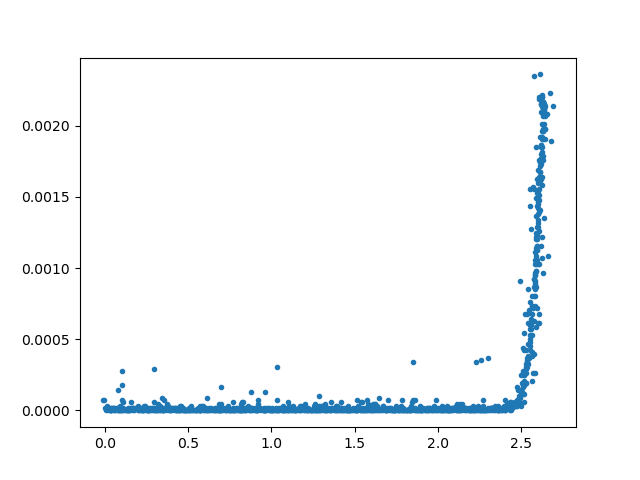
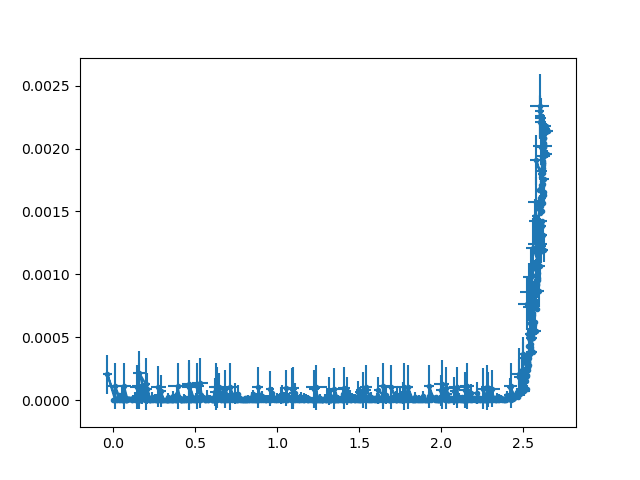
Added function to plot with error

diff --git a/diode_experiment.py b/diode_experiment.py
@@ -2,9 +2,9 @@ from arduino_device import ArduinoVISADevice, list_devices
 
 
 class DiodeExperiment:
-    def __init__(self, R, port):
+    def __init__(self, port):
         self.device = ArduinoVISADevice(port=port)
-        self.R = R
+        self.R = 220
         return
 
     def scan(self, start, stop):
@@ -26,3 +26,35 @@ class DiodeExperiment:
         self.device.set_output_value(value=0)
 
         return U_LED, I_LED
+
+    def scan_with_error(self, N, start, stop):
+        U_LED_values = []
+        I_LED_values = []
+
+        U_mean = [0] * (stop - start)
+        I_mean = [0] * (stop - start)
+        for i in range(N):
+            U, I = self.scan(start, stop)
+            for j in range(start, stop):
+                U_mean[j] += U[j]
+                I_mean[j] += I[j]
+            U_LED_values.append(U)
+            I_LED_values.append(I)
+
+        for i in range(start, stop):
+            U_mean[i] /= N
+            I_mean[i] /= N
+
+        std_U = [0] * (stop - start)
+        std_I = [0] * (stop - start)
+
+        for i in range(N):
+            for j in range(start, stop):
+                std_U[j] += (U_LED_values[i][j] - U_mean[j])**2
+                std_I[j] += (I_LED_values[i][j] - I_mean[j])**2
+
+        for i in range(start, stop):
+            std_U[i] = (std_U[i] / (N - 1))**0.5
+            std_I[i] = (std_I[i] / (N - 1))**0.5
+
+        return U_mean, std_U, I_mean, std_I

diff --git a/view.py b/view.py
@@ -5,12 +5,12 @@ import csv
 print(list_devices())
 
 port = "ASRL8::INSTR"
-R = 220
-experiment = DiodeExperiment(R=R, port=port)
 
-U_LED, I_LED = experiment.scan(0, 1024)
+experiment = DiodeExperiment(port=port)
 
-plt.plot(U_LED, I_LED, '.')
+U_LED, U_err, I_LED, I_err = experiment.scan_with_error(3, 0, 1024)
+
+plt.errorbar(U_LED, I_LED, xerr=U_err, yerr=I_err, marker='.')
 plt.savefig('U_I_char.png')
 plt.show()
 
